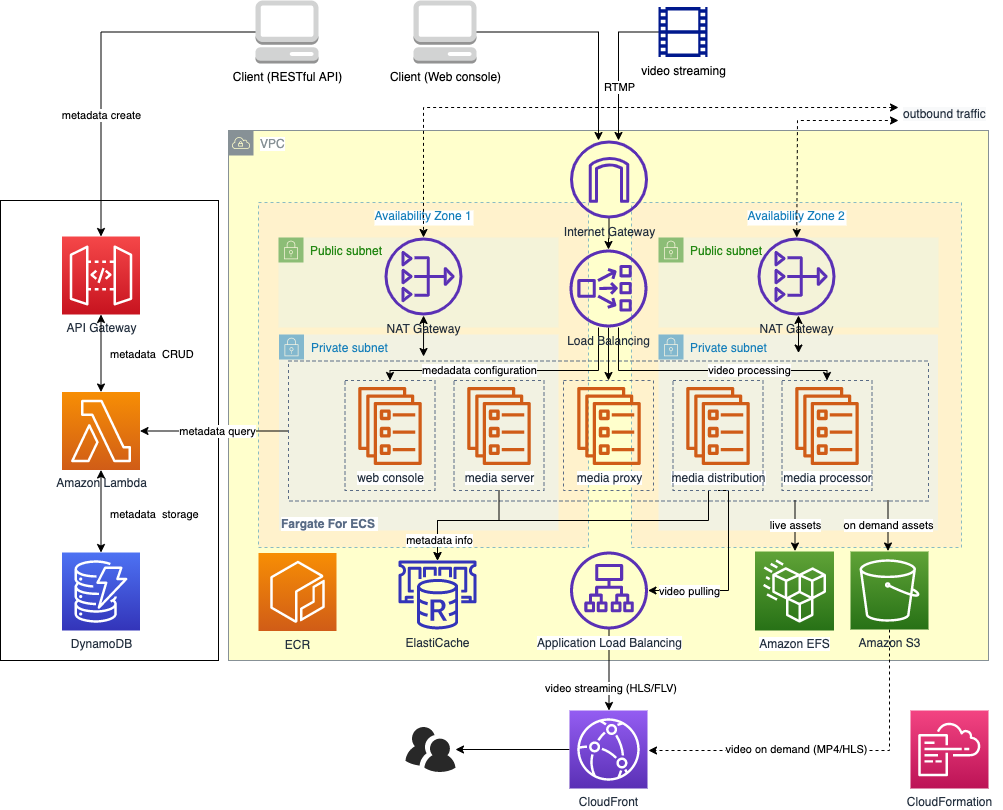
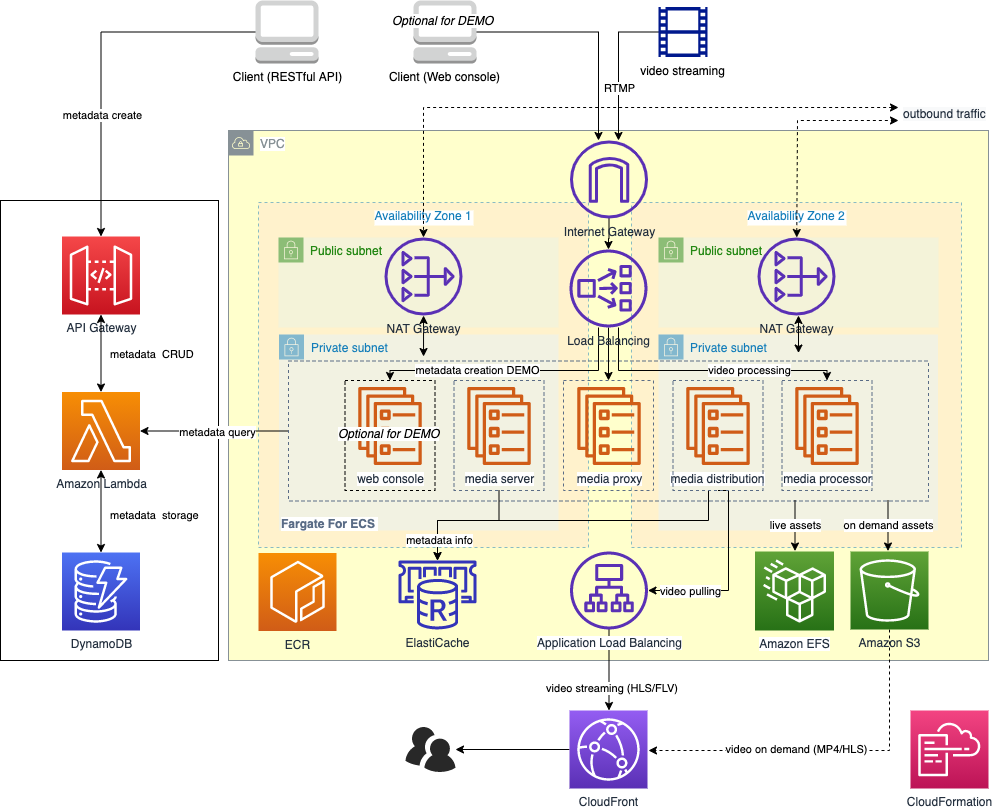
merge from upstream with demo web page

diff --git a/README_en.md b/README_en.md
@@ -72,9 +72,10 @@ Video live streaming, transcoding, recording, fragmentation and other functions,
 - Built-in Nginx cache to reduce the load on the server as much as possible to avoid thundering herd problem
 - Using CloudFront to optimize the downstream experience and secure video access through signed URL
 
-**Management Console**
+**Demo Web page**
+**Note that this web page is for demonstration purposes only, solution WILL NOT create such web page by default unless explicit configured in CloudFormation parameter**
 ![console](./images/console.png)
-Function of console include:
+Function of demo web page include:
 - Domain configuration
 - Live streaming managment
 - Video recording
@@ -90,6 +91,8 @@ Function of console include:
 Click [**Here**](https://cn-north-1.console.amazonaws.cn/cloudformation/home?region=cn-north-1#/stacks/create/template?stackName=AWSVideoStreamingPlatform&templateURL=https://aws-gcr-solutions.s3.cn-north-1.amazonaws.com.cn/serverless-video-streaming/v1.0.0/aws-serverless-video-streaming.main.template.yaml) to jump AWS CloudFormation console (Beijing), click Next to deploy
 
 ![console-snapshot](./images/console-snapshot.png)
+
+Click Next to configure the deployment options. InstallDemoConsole configures whether to deploy the user demo web interface, default value is false. CNAME configures the CNAMEs associated with CloudFront. ZHY/BJS region users need to use the registered domain name for association. Overseas users do not have such requirement, default value is www.example.cn
 
 [**optional**]After the solution is deployed, if you want to distribute video streams via HTTPS to further enhance security, you can follow the steps below to additionally configure your CloudFront and Elastic Load Balancer services
 
@@ -125,9 +128,73 @@ sudo aws iam upload-server-certificate \
 ![edit-elb-1](./images/edit-elb-1.png)
 ![edit-elb-2](./images/edit-elb-2.png)
 
+## Create Live Streaming Channel
+The solution uses the RESTFul API provided by API Gateway to manage video channel metadata and integrate it into existing application and management interface. After the solution is deployed, navigate to the nest stack prefixed with VideoMetadata, and check the output option to obtain the URL address created by API Gateway.
+
+![metadata-output](./images/metadata-output.png)
+
+POST the URL address through tools such as Curl or Postman to create a live channel, where the main content of the request is as follows
+
+```
+{"isFlv":true, "isHls":true, "isVideo":false, "isImage":true, "isMotion":false, "isOnDemand":false, "isCMAF":false, "video_time":"60", "image_time":"30", "hls_time":"2", "hls_list_size":"5", "outdate":"2022-12-09"}
+```
+
+create live channel by Curl
+
+```
+curl -d '{"isFlv":true, "isHls":false, "isVideo":true, "isImage":false, "isMotion":false, "isOnDemand":false, "isCMAF":false, "video_time":"60", "image_time":"30", "hls_time":"2", "hls_list_size":"5", "outdate":"2022-12-09"}' -H "Content-Type: application/json" -X POST https://xxxxx.execute-api.cn-northwest-1.amazonaws.com.cn/Prod/videostream
+```
+
+Create a live channel through Thunder Client. After the creation is successful, you will get the corresponding return information
+
+![metadata-create](./images/metadata-create.png)
+
+Navigate to DynamoDB console and check table named video-metadata. You can see corresponding channel information has been created. Record the two strings of channel id and key as shown in the figure.
+
+![metadata-channel-key](./images/metadata-channel-key.png)
+
+The above string is spliced in the following format and used as the streaming key for subsequent video push
+
+**Streaming Key Format**
+
+```
+<id>?sign=<key>
+```
+
+**Example as follows**
+```
+70ef9b07-adbe-478d-b098-d7c8efd84a98?sign=1670371200-5db080c8cdca8764de881bc04e61e2b1
+```
+
+**Streaming URL**
+After obtaining the streaming URL from the CloudFormation console, splice the RTMP address of the video streaming in the following way:
+
+```
+rtmp://<LiveVideoPushStreamURL>/stream/98724e64-bcd1-4887-af4a-60be440709aa?sign=1670544000-63497837275539bdb8e21800887e2db9
+```
+
+Configure corresponding streaming software e.g. OBS to push video stream
+![obs](./images/obs.png)
+
+Other configurations are shown below:
+- Encoder: x264
+- Rate Control: CBR
+- Bit Rate：1000 (or lower)
+- Key Frame Gap（Second，0=Auto）：2
+- CPU Usage Preset (higher = less CPU) ：veryfast， 
+- Tune：zerolatency
+
+View video through video player (ffplayer) or browser
+
+```
+ffplay http://<LiveVideoPullStreamURL>/98724e64-bcd1-4887-af4a-60be440709aa/live.flv
+
+http://<LiveVideoPullStreamURL>/98724e64-bcd1-4887-af4a-60be440709aa/flv.html
+```
+
 ## Console Usage：
 
-**Create Channel**
+**Note that this web page is for demonstration purposes only, solution WILL NOT create such web page by default unless explicit configured in CloudFormation parameter**
 
 Get the management console address, push/pull stream address, and pull stream domain name from the CloudFormation console output panel, 
 
@@ -198,53 +265,6 @@ Transcode pushed live stream into a video stream with multiple resolutions and b
 Relay and forward video streams, including following functions:
 - Automatically push the original video stream to other live video platforms through such video relay
 - Synchronous live streaming with native & overseas 
-
-![relay](./images/relay.png)
-
-## API integration:
-
-You can manage metadata of the video channel through Restful API provided by API Gateway, and integrate it into your own application and management interface
-
-**Create Video Metadata**
-
-Aquire invoking URL through API Gateway console
-![api-gateway](./images/api-gateway.png)
-
-Publish video stream metadata via curl
-
-```
-curl -d '{"isFlv":true， "isHls":false，"isVideo":false， "isImage":false，"isMotion":false， "isOnDemand":false，"isCMAF":false，"video_time":"60"，"image_time":"30"，"hls_time":"2"，"hls_list_size":"5"， "outdate":"2022-12-09"}' -H "Content-Type: application/json" -X POST https://xxxxx.execute-api.cn-northwest-1.amazonaws.com.cn/Prod/videostream
-```
-
-Get stream ID and signing key from the DynamoDB console
-
-![dynamodb](./images/dynamodb.png)
-
-**Acquire Stream Push URL**
-Use following methods to assemble the RTMP address to push video stream, after obtaining the video streaming URL from CloudFormation console, 
-
-```
-RTMP://<LiveVideoPushStreamURL>/stream/98724e64-bcd1-4887-af4a-60be440709aa?sign=1670544000-63497837275539bdb8e21800887e2db9
-```
-
-Configure corresponding streaming software e.g. OBS to push video stream
-![obs](./images/obs.png)
-
-Other configurations are shown below:
-- Encoder: x264
-- Rate Control: CBR
-- Bit Rate：1000 (or lower)
-- Key Frame Gap（Second，0=Auto）：2
-- CPU Usage Preset (higher = less CPU) ：veryfast， 
-- Tune：zerolatency
-
-View video through video player (ffplayer) or browser
-
-```
-ffplay http://<LiveVideoPullStreamURL>/98724e64-bcd1-4887-af4a-60be440709aa/live.flv
-
-http://<LiveVideoPullStreamURL>/98724e64-bcd1-4887-af4a-60be440709aa/flv.html
-```
 
 ## Security
 

diff --git a/README.md b/README.md
@@ -64,9 +64,10 @@ rtmp://<DNS Name>/stream/<stream key>
 - 内置Nginx缓存，尽可能减少服务器上的负载，避免惊群效应
 - 利用CloudFront优化下行拉流体验，通过signed URL实现视频的安全访问
 
-**管理控制台：**
+**演示web：**
+**注意该web界面仅作演示用途，默认方案不会创建该web界面，需要在CloudFormation中的参数显式指定**
 ![console](./images/console.png)
-管理控制台功能包括：
+演示web功能包括：
 - 域名配置
 - 直播管理
 - 视频录制
@@ -82,6 +83,8 @@ rtmp://<DNS Name>/stream/<stream key>
 点击[**这里**](https://cn-north-1.console.amazonaws.cn/cloudformation/home?region=cn-north-1#/stacks/create/template?stackName=AWSVideoStreamingPlatform&templateURL=https://aws-gcr-solutions.s3.cn-north-1.amazonaws.com.cn/serverless-video-streaming/v1.0.0/aws-serverless-video-streaming.main.template.yaml)跳转到对应的AWS CloudFormation控制台（北京），点击下一步进行部署
 
 ![console-snapshot](./images/console-snapshot.png)
+
+点击下一步进行部署选项配置，其中InstallDemoConsole配置是否部署用户演示的web界面，默认为false，CNAME配置CloudFront所关联的CNAMEs，大陆用户需要使用备案域名进行关联，海外用户无此要求，默认为www.example.cn
 
 [**可选**]在方案部署完毕之后，如果您希望通过HTTPS方式分发视频流以进一步增强安全性，则可以按照下列步骤来额外配置您的CloudFront和Elastic Load Balancer服务
 
@@ -117,7 +120,75 @@ sudo aws iam upload-server-certificate \
 ![edit-elb-1](./images/edit-elb-1.png)
 ![edit-elb-2](./images/edit-elb-2.png)
 
-## 管理控制台使用说明：
+## 创建直播频道
+方案通过API Gateway提供的Restful API来对视频频道的元数据进行管理并集成到自己的应用和管理界面中。在方案部署完毕之后，跳转到前缀为VideoMetadata的nest stack，查看output选项以获取所创建的API Gateway的URL地址。
+
+![metadata-output](./images/metadata-output.png)
+
+通过Curl或者Postman等工具对该URL地址进行POST操作以创建直播频道，其中request的主体内容如下所示
+
+```
+{"isFlv":true, "isHls":true, "isVideo":false, "isImage":true, "isMotion":false, "isOnDemand":false, "isCMAF":false, "video_time":"60", "image_time":"30", "hls_time":"2", "hls_list_size":"5", "outdate":"2022-12-09"}
+```
+
+通过Curl创建直播频道
+
+```
+curl -d '{"isFlv":true, "isHls":false, "isVideo":true, "isImage":false, "isMotion":false, "isOnDemand":false, "isCMAF":false, "video_time":"60", "image_time":"30", "hls_time":"2", "hls_list_size":"5", "outdate":"2022-12-09"}' -H "Content-Type: application/json" -X POST https://xxxxx.execute-api.cn-northwest-1.amazonaws.com.cn/Prod/videostream
+```
+
+通过Thunder Client创建直播频道，创建成功后会获取对应的返回信息
+
+![metadata-create](./images/metadata-create.png)
+
+登陆到DynamoDB控制台，查看名为video-metadata的表项，可以看到对应的channel信息已经创建，记录下如图所示的channel id和key两个字符串.
+
+![metadata-channel-key](./images/metadata-channel-key.png)
+
+将上述字符串按照如下格式进行拼接，用作后续视频推送的串流密钥
+
+**串流密钥格式**
+
+```
+<id>?sign=<key>
+```
+
+**范例如下：**
+```
+70ef9b07-adbe-478d-b098-d7c8efd84a98?sign=1670371200-5db080c8cdca8764de881bc04e61e2b1
+```
+
+从CloudFormation控制台输出面板中获取推流域名，推流地址（其中的LiveVideoPushStreamURL）
+![cloudformation-output](./images/cloudformation-output.png)
+
+**推流网址：**
+从CloudFormation控制台获取推流地址之后，按照以下方式拼接视频推送的RTMP地址：
+
+```
+rtmp://<LiveVideoPushStreamURL>/stream/98724e64-bcd1-4887-af4a-60be440709aa?sign=1670544000-63497837275539bdb8e21800887e2db9
+```
+
+配置对应的推流软件如OBS来进行视频推送
+![obs](./images/obs.png)
+
+其他配置如下所示：
+- 编码器：x264
+- 速率控制：CBR
+- 比特率：1000 (或更低)
+- 关键帧间隔（秒，0=自动）：2
+- CPU Usage Preset (higher = less CPU) ：veryfast， 
+- Tune：zerolatency
+
+通过视频播放器（ffplayer）或浏览器查看视频
+
+```
+ffplay http://<LiveVideoPullStreamURL>/98724e64-bcd1-4887-af4a-60be440709aa/live.flv
+
+http://<LiveVideoPullStreamURL>/98724e64-bcd1-4887-af4a-60be440709aa/flv.html
+```
+
+## （可选）演示web使用说明：
+**注意该web界面仅作演示用途，默认方案不会创建该web界面，需要在CloudFormation中的参数显式指定**
 
 **创建直播频道**
 
@@ -195,54 +266,6 @@ sudo aws iam upload-server-certificate \
 - 实现国内和海外同步直播
 
 ![relay](./images/relay.png)
-
-## API集成：
-
-可以通过API Gateway提供的Restful API来对视频频道的元数据进行管理并集成到自己的应用和管理界面中
-
-**创建视频流元数据**
-
-获取API网关调用URL
-![api-gateway](./images/api-gateway.png)
-
-通过 curl 发布视频流元数据
-
-```
-curl -d '{"isFlv":true, "isHls":false, "isVideo":false, "isImage":false, "isMotion":false, "isOnDemand":false, "isCMAF":false, "video_time":"60", "image_time":"30", "hls_time":"2", "hls_list_size":"5", "outdate":"2022-12-09"}' -H "Content-Type: application/json" -X POST https://xxxxx.execute-api.cn-northwest-1.amazonaws.com.cn/Prod/videostream
-
-输出类似
-{"isFlv":true,"isHls":false,"isVideo":false,"isImage":false,"isMotion":false,"isOnDemand":false,"isCMAF":false,"video_time":"60","image_time":"30","hls_time":"2","hls_list_size":"5","outdate":"2022-12-09","id":"d714b0d5-11b1-4cb8-97d5-6274b742e5d7","TimeStamp":1627656447,"key":"1670544000-752b3dd19347f39b0c392750c4472e17"}
-```
-
-从DynamoDB控制台获取您的流ID和签名密钥
-
-![dynamodb](./images/dynamodb.png)
-
-**获取推流网址：**
-从CloudFormation控制台获取推流地址之后，通过以下方式组装视频推送的RTMP地址：
-
-```
-rtmp://<LiveVideoPushStreamURL>/stream/98724e64-bcd1-4887-af4a-60be440709aa?sign=1670544000-63497837275539bdb8e21800887e2db9
-```
-
-配置对应的推流软件如OBS来进行视频推送
-![obs](./images/obs.png)
-
-其他配置如下所示：
-- 编码器：x264
-- 速率控制：CBR
-- 比特率：1000 (或更低)
-- 关键帧间隔（秒，0=自动）：2
-- CPU Usage Preset (higher = less CPU) ：veryfast， 
-- Tune：zerolatency
-
-通过视频播放器（ffplayer）或浏览器查看视频
-
-```
-ffplay http://<LiveVideoPullStreamURL>/98724e64-bcd1-4887-af4a-60be440709aa/live.flv
-
-http://<LiveVideoPullStreamURL>/98724e64-bcd1-4887-af4a-60be440709aa/flv.html
-```
 
 ## Security
 
